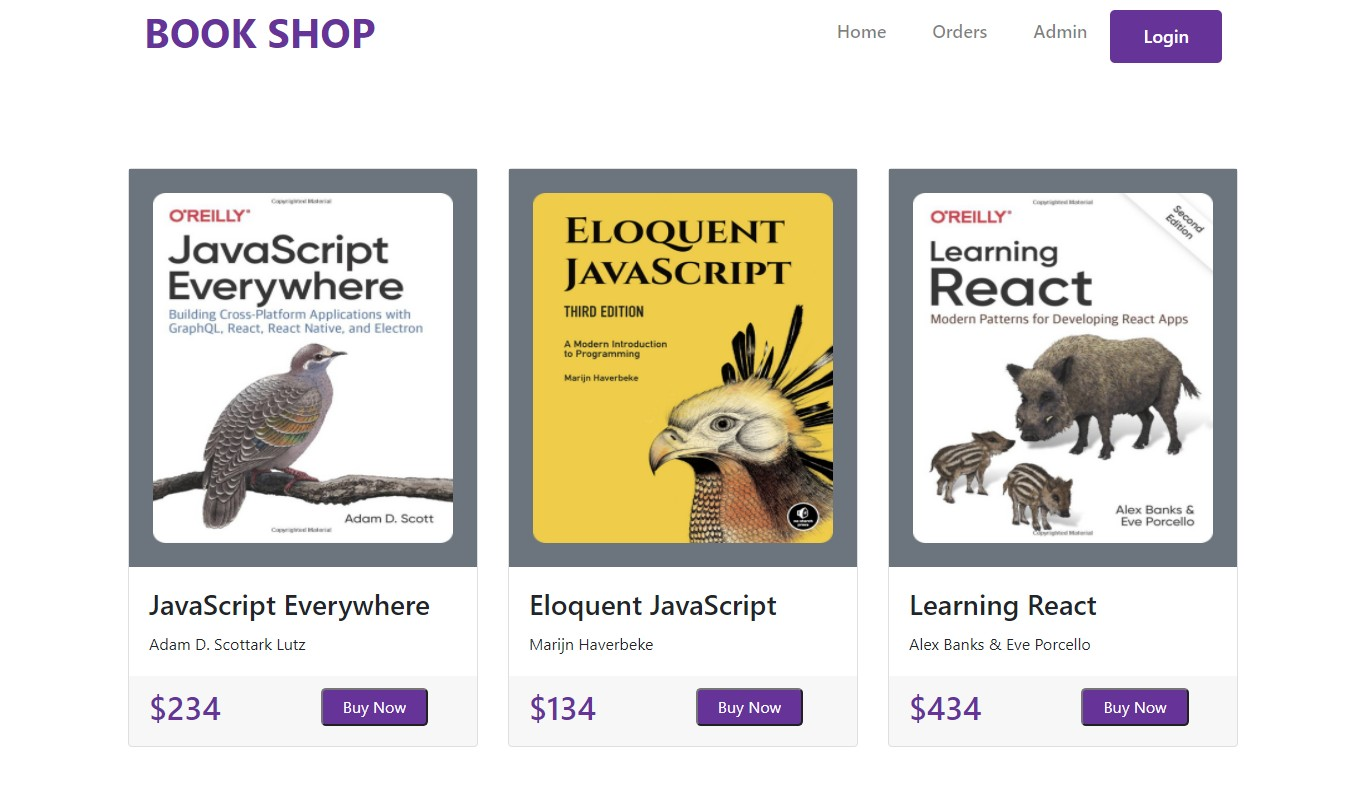
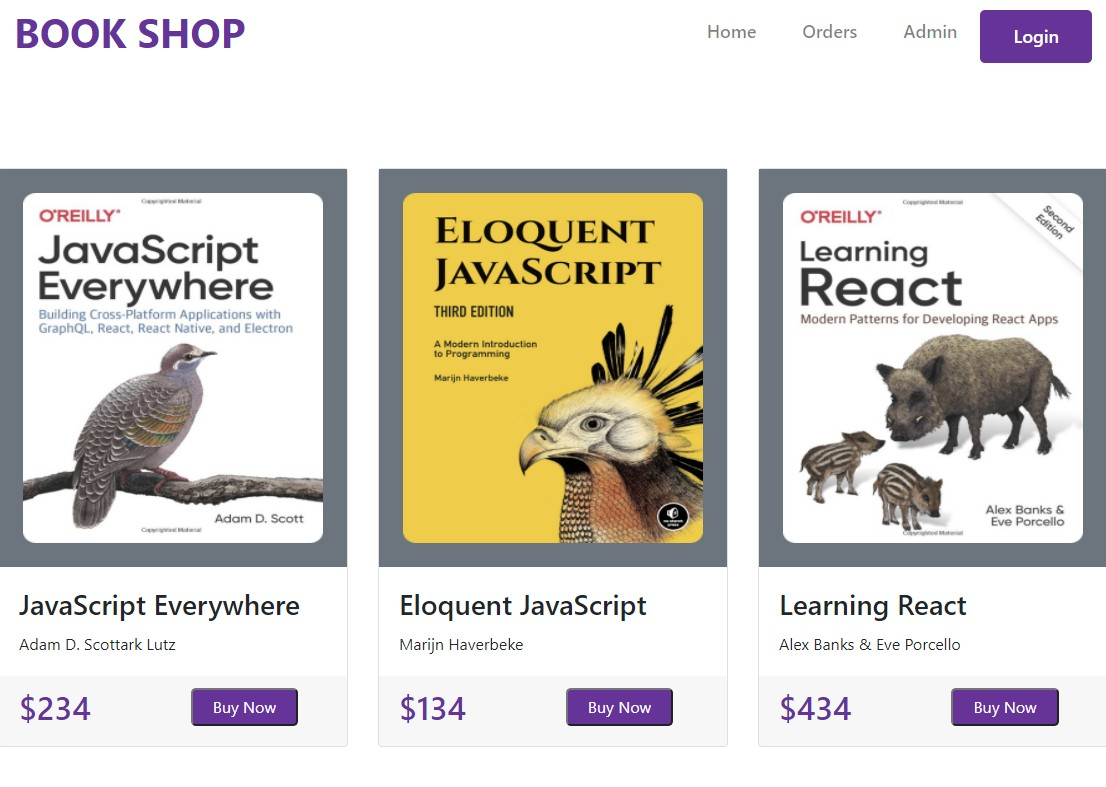
responsiveness added

diff --git a/src/components/Home/Home.js b/src/components/Home/Home.js
@@ -9,18 +9,20 @@ library.add(fab, faLinkedin, faGithub, faFacebook, faTwitter, faInstagram);
 const Home = () => {
     return (
         <main className="home-container row g-5 d-flex align-items-center justify-content-center">
-            <section className="col-md-5 profile-image">
+            <section className="col-xl-5 mt-5 profile-image">
 
             </section>
-            <section className="offset-md-1 col-md-6">
-                <h1 className="profile-name">Md. Mehedi Hasan</h1>
-                <p className="profession">Web Developer, Fast Learner, Enthusiastic Programmer</p>
-                <div className="mt-5">
-                    <a href="https://www.linkedin.com/in/md-mehedi-hasan-90a199143/" target="_blank" rel="noreferrer"><FontAwesomeIcon icon={['fab', 'linkedin']} className="icon" /></a>
-                    <a href="https://github.com/mhasanjoy" target="_blank" rel="noreferrer"><FontAwesomeIcon icon={['fab', 'github']} className="icon" /></a>
-                    <a href="https://www.facebook.com/m.hasanjoy.5/" target="_blank" rel="noreferrer"><FontAwesomeIcon icon={['fab', 'facebook']} className="icon" /></a>
-                    <a href="https://twitter.com/m_hasanjoy" target="_blank" rel="noreferrer"><FontAwesomeIcon icon={['fab', 'twitter']} className="icon" /></a>
-                    <a href="https://www.instagram.com/m.hasanjoy/" target="_blank" rel="noreferrer"><FontAwesomeIcon icon={['fab', 'instagram']} className="icon" /></a>
+            <section className="offset-xl-1 col-xl-6 d-flex justify-content-center align-items-center">
+                <div>
+                    <h1 className="profile-name">Md. Mehedi Hasan</h1>
+                    <p className="profession">Web Developer, Fast Learner, Enthusiastic Programmer</p>
+                    <div className="mt-5 mb-5 pb-5">
+                        <a href="https://www.linkedin.com/in/md-mehedi-hasan-90a199143/" target="_blank" rel="noreferrer"><FontAwesomeIcon icon={['fab', 'linkedin']} className="social-icon" /></a>
+                        <a href="https://github.com/mhasanjoy" target="_blank" rel="noreferrer"><FontAwesomeIcon icon={['fab', 'github']} className="social-icon" /></a>
+                        <a href="https://www.facebook.com/m.hasanjoy.5/" target="_blank" rel="noreferrer"><FontAwesomeIcon icon={['fab', 'facebook']} className="social-icon" /></a>
+                        <a href="https://twitter.com/m_hasanjoy" target="_blank" rel="noreferrer"><FontAwesomeIcon icon={['fab', 'twitter']} className="social-icon" /></a>
+                        <a href="https://www.instagram.com/m.hasanjoy/" target="_blank" rel="noreferrer"><FontAwesomeIcon icon={['fab', 'instagram']} className="social-icon" /></a>
+                    </div>
                 </div>
             </section>
         </main>

diff --git a/src/components/About/About.js b/src/components/About/About.js
@@ -9,15 +9,15 @@ const About = () => {
         <main className="about-container">
             <section>
                 <img src={ProfileImage} alt="" />
-                <p className="mt-5 about-description">Hello, I'm an aspiring professional web developer and I'm very passionate and dedicated to my work. I am a fresh CSE graduate. Currently focusing mainly on front-end web development with a little bit of back-end. My main objective is to build a career as an IT professional. I am always willing to accept any type of challenge in a pleasant working environment which will permit me to persevere in practicing and enhancing my proficiency and knowledge.</p>
+                <p className="mt-5 about-description">Hello, I'm an aspiring professional web developer and I'm very passionate and dedicated to my work. I am a fresh CSE graduate. Currently focusing mainly on front-end web development with a little bit of back-end. My main objective is to build a career as an IT professional. I am always willing to accept any type of challenge in a pleasant working environment which will permit me to persevere in practicing and enhance my proficiency and knowledge.</p>
             </section>
             <section className="row g-5 mt-5 about-info">
-                <div className="col-md-6 education">
+                <div className="col-lg-6 education">
                     <h1>Rajshahi University of Engineering & Technology</h1>
                     <h2>B.Sc. in Computer Science & Engineering</h2>
                     <p>I've completed my B.Sc. in CSE from RUET in 2020. Now, as a fresher, actively looking for a full time job.</p>
                 </div>
-                <div className="col-md-6 education">
+                <div className="col-lg-6 education">
                     <h1>Complete Web Development Course With Jhankar Mahbub <a href="https://drive.google.com/file/d/19poWHNjw4GfiyHZNGxgtNTOwzK_RrpOY/view" target="_blank" rel="noreferrer"><FontAwesomeIcon icon={faExternalLinkAlt} /></a></h1>
                     <h2>Programming Hero</h2>
                     <p>I've completed a React based web development course. It was challenging and I get to learn new things.</p>

diff --git a/src/components/Contact/Contact.js b/src/components/Contact/Contact.js
@@ -2,6 +2,8 @@ import React from 'react';
 import './Contact.css';
 import { GoogleMap, LoadScript } from '@react-google-maps/api';
 import { Marker } from '@react-google-maps/api';
+import { FontAwesomeIcon } from '@fortawesome/react-fontawesome';
+import { faEnvelope, faHome, faMobileAlt } from '@fortawesome/free-solid-svg-icons';
 
 const containerStyle = {
     width: '100%',
@@ -20,7 +22,7 @@ const onLoad = marker => {
 const Contact = () => {
     return (
         <main className="contact-container">
-            <h1 className="mb-5" style={{color: 'black'}}>Get in Touch</h1>
+            <h1 className="mb-5 color-highlight">Get in Touch</h1>
             <LoadScript
                 googleMapsApiKey=""
             >
@@ -36,9 +38,9 @@ const Contact = () => {
                     <></>
                 </GoogleMap>
             </LoadScript>
-            <p className="mt-5 contact-info"><strong style={{color: 'black'}}>Address:</strong> Bheramara, Kushtia, Bangladesh</p>
-            <p className="mt-5 contact-info"><strong style={{color: 'black'}}>Email:</strong> m.hasanjoy13@gmail.com</p>
-            <p className="mt-5 contact-info"><strong style={{color: 'black'}}>Mobile:</strong> +8801738399408</p>
+            <p className="mt-5 contact-info"><strong className="color-highlight"><FontAwesomeIcon icon={faHome} className="contact-icon" />Address:</strong> Bheramara, Kushtia, Bangladesh</p>
+            <p className="mt-5 contact-info"><strong className="color-highlight"><FontAwesomeIcon icon={faEnvelope} className="contact-icon" />Email:</strong> m.hasanjoy13@gmail.com</p>
+            <p className="mt-5 contact-info"><strong className="color-highlight"><FontAwesomeIcon icon={faMobileAlt} className="contact-icon" />Mobile:</strong> +8801738399408</p>
         </main>
     );
 };

diff --git a/src/components/AllProjects/AllProjects.js b/src/components/AllProjects/AllProjects.js
@@ -1,15 +1,15 @@
 import React from 'react';
-import './Projects.css';
+import './AllProjects.css';
 import BookShop from '../../images/BookShop.jpg';
-import RideBooking from '../../images/RideBooking.png';
-import PremierLeague from '../../images/PremierLeague.png';
-import WeatherMap from '../../images/WeatherMap.png';
-import Calculator from '../../images/Calculator.png';
-import PenguinFashion from '../../images/PenguinFashion.png';
+import RideBooking from '../../images/RideBooking.jpg';
+import PremierLeague from '../../images/PremierLeague.jpg';
+import WeatherMap from '../../images/WeatherMap.jpg';
+import Calculator from '../../images/Calculator.jpg';
+import PenguinFashion from '../../images/PenguinFashion.jpg';
 import Project from '../Project/Project';
 
 const Projects = () => {
-    const projects = [
+    const allProjects = [
         {
             id: 6,
             name: 'Book Shop using MERN stack',
@@ -65,7 +65,7 @@ const Projects = () => {
             <h1>Some of my projects</h1>
             <section className="row g-5 mt-5">
                 {
-                    projects.map(project => <Project key={project.id} project={project}></Project>)
+                    allProjects.map(project => <Project key={project.id} project={project}></Project>)
                 }
             </section>
         </main>

diff --git a/src/App.js b/src/App.js
@@ -5,16 +5,16 @@ import {
   Switch,
   Route
 } from "react-router-dom";
-import Home from './components/Home/Home';
-import NoMatch from './components/NoMatch/NoMatch';
 import Sidebar from './components/Sidebar/Sidebar';
-import Contact from './components/Contact/Contact';
+import Home from './components/Home/Home';
 import About from './components/About/About';
-import Projects from './components/Projects/Projects';
+import AllProjects from './components/AllProjects/AllProjects';
+import Contact from './components/Contact/Contact';
+import NoMatch from './components/NoMatch/NoMatch';
 
 function App() {
   return (
-    <div className="App row">
+    <div className="row">
       <Router>
         <div className="col-md-3">
           <Sidebar></Sidebar>
@@ -28,7 +28,7 @@ function App() {
               <About></About>
             </Route>
             <Route path="/projects">
-              <Projects></Projects>
+              <AllProjects></AllProjects>
             </Route>
             <Route path="/contact">
               <Contact></Contact>

diff --git a/src/components/Project/Project.js b/src/components/Project/Project.js
@@ -7,9 +7,11 @@ import { faGithub } from '@fortawesome/free-brands-svg-icons';
 const Project = (props) => {
     const { name, img, preview, client, server } = props.project;
     return (
-        <div className="col-md-6 project">
+        <div className="col-lg-6 project">
             <p className="project-name">{name}</p>
-            <img src={img} alt="" />
+            <div className="project-image">
+                <img src={img} alt="" />
+            </div>
             <div className="d-flex justify-content-center p-3">
                 <a href={preview} target="_blank" rel="noreferrer" className="project-link"><FontAwesomeIcon icon={faEye} className="project-icon" />Preview</a>
                 <a href={client} target="_blank" rel="noreferrer" className="project-link"><FontAwesomeIcon icon={faGithub} className="project-icon" />Code</a>

diff --git a/src/components/Sidebar/Sidebar.js b/src/components/Sidebar/Sidebar.js
@@ -4,7 +4,7 @@ import './Sidebar.css';
 
 const Sidebar = () => {
     return (
-        <div className="sidebar-container col-md-3 d-flex align-items-center justify-content-center">
+        <div className="sidebar-container col-lg-3 d-flex align-items-center justify-content-center" >
             <ul className="nav flex-column">
                 <li className="nav-item">
                     <Link to="/home" className="nav-link sidebar-link">Home</Link>
@@ -22,7 +22,7 @@ const Sidebar = () => {
                     &copy; {new Date().getFullYear()} by <br /> Md. Mehedi Hasan
                 </li>
             </ul>
-        </div>
+        </div >
     );
 };
 

diff --git a/src/components/Home/Home.css b/src/components/Home/Home.css
@@ -1,7 +1,5 @@
 .home-container {
-    margin: 0;
-    padding: 0;
-    height: 100vh;
+    min-height: 100vh;
 }
 
 .profile-image {
@@ -14,7 +12,6 @@
     background-repeat: no-repeat;
     background-size: cover;
     animation: morph 8s ease-in-out infinite;
-    transition: all 1s ease-in-out;
 }
 
 @keyframes morph {
@@ -38,8 +35,12 @@
     font-size: 1.2rem;
 }
 
-.icon {
+.social-icon {
     font-size: 2rem;
     color: black;
     margin-right: 20px;
+}
+
+.social-icon:hover {
+    color: rgb(0, 0, 255, 0.9);
 }

diff --git a/src/components/Project/Project.css b/src/components/Project/Project.css
@@ -12,16 +12,27 @@
     margin-bottom: 1.5rem;
 }
 
-.project img {
+.project-image {
+    overflow: hidden;
+}
+
+.project-image img {
     width: 100%;
     height: 300px;
+    transition: transform 1s ease-in-out;
+}
+
+.project-image img:hover {
+    transform: scale3d(1.2, 1.2, 1.2);
 }
 
 .project-link {
     color: black;
     text-decoration: none;
     font-size: 1.2rem;
+    font-weight: 500;
     padding: 1rem;
+    text-align: center;
 }
 
 .project-icon {

diff --git a/src/components/Sidebar/Sidebar.css b/src/components/Sidebar/Sidebar.css
@@ -1,7 +1,5 @@
 .sidebar-container {
-    margin: 0;
-    padding: 0;
-    height: 100vh;
+    min-height: 100vh;
     background-color: rgb(211, 211, 211, 0.5);
     position: fixed;
 }
@@ -10,4 +8,10 @@
     color: black;
     font-size: 1.2rem;
     font-weight: 500;
+}
+
+@media (max-width: 768px) {
+    .sidebar-container {
+        position: static;
+    }
 }

diff --git a/src/components/Contact/Contact.css b/src/components/Contact/Contact.css
@@ -1,9 +1,18 @@
-.contact-container{
+.contact-container {
     margin: 100px 50px 200px;
 }
+
 .contact-info {
     font-size: 1.2rem;
     font-weight: 500;
     border: solid 2px rgba(72, 61, 139, 0.5);
     padding: 10px 20px;
+}
+
+.contact-icon {
+    margin-right: 0.5rem;
+}
+
+.color-highlight {
+    color: black;
 }

diff --git a/src/App.css b/src/App.css
@@ -1,5 +1,4 @@
-.App {
+* {
     margin: 0;
     padding: 0;
-    position: relative;
 }
